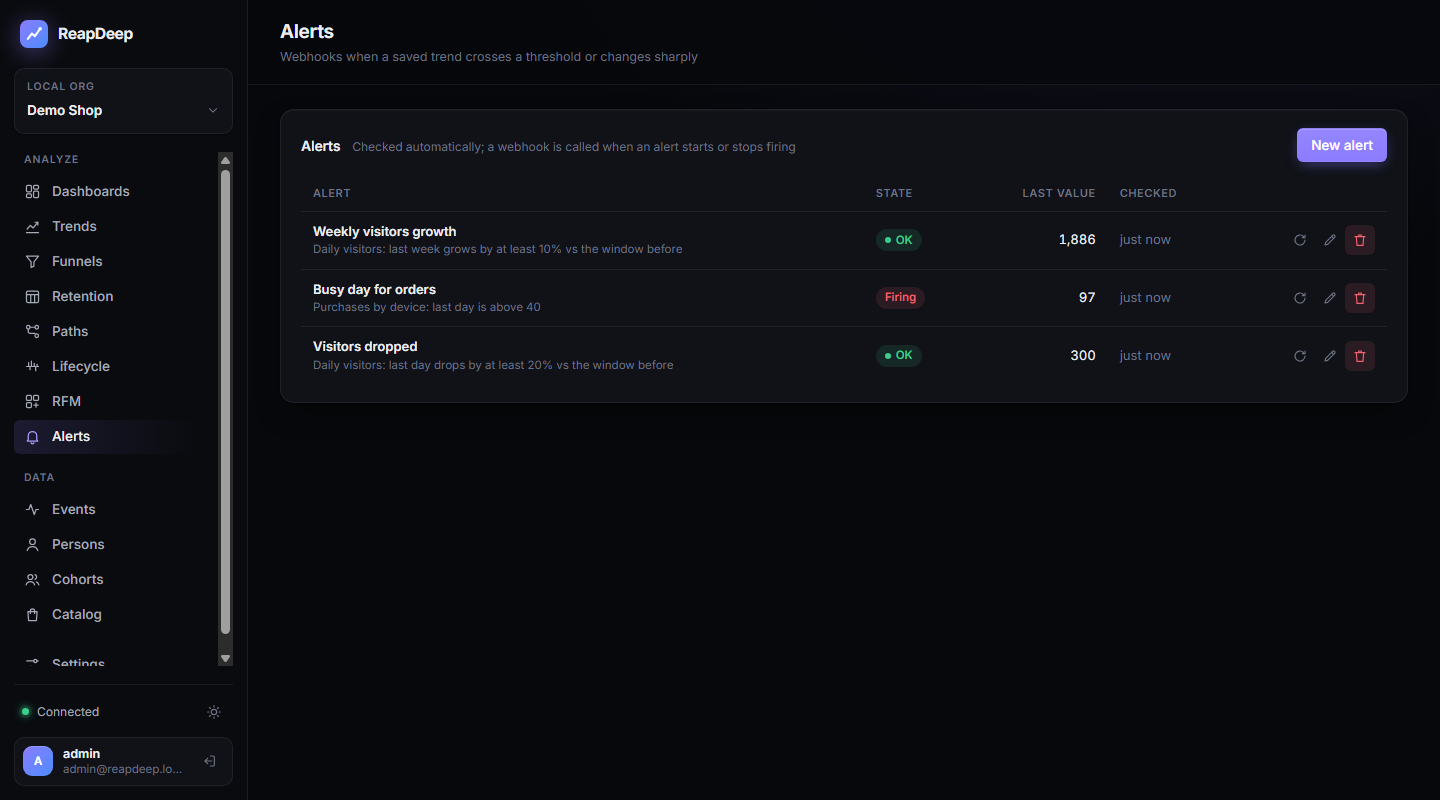
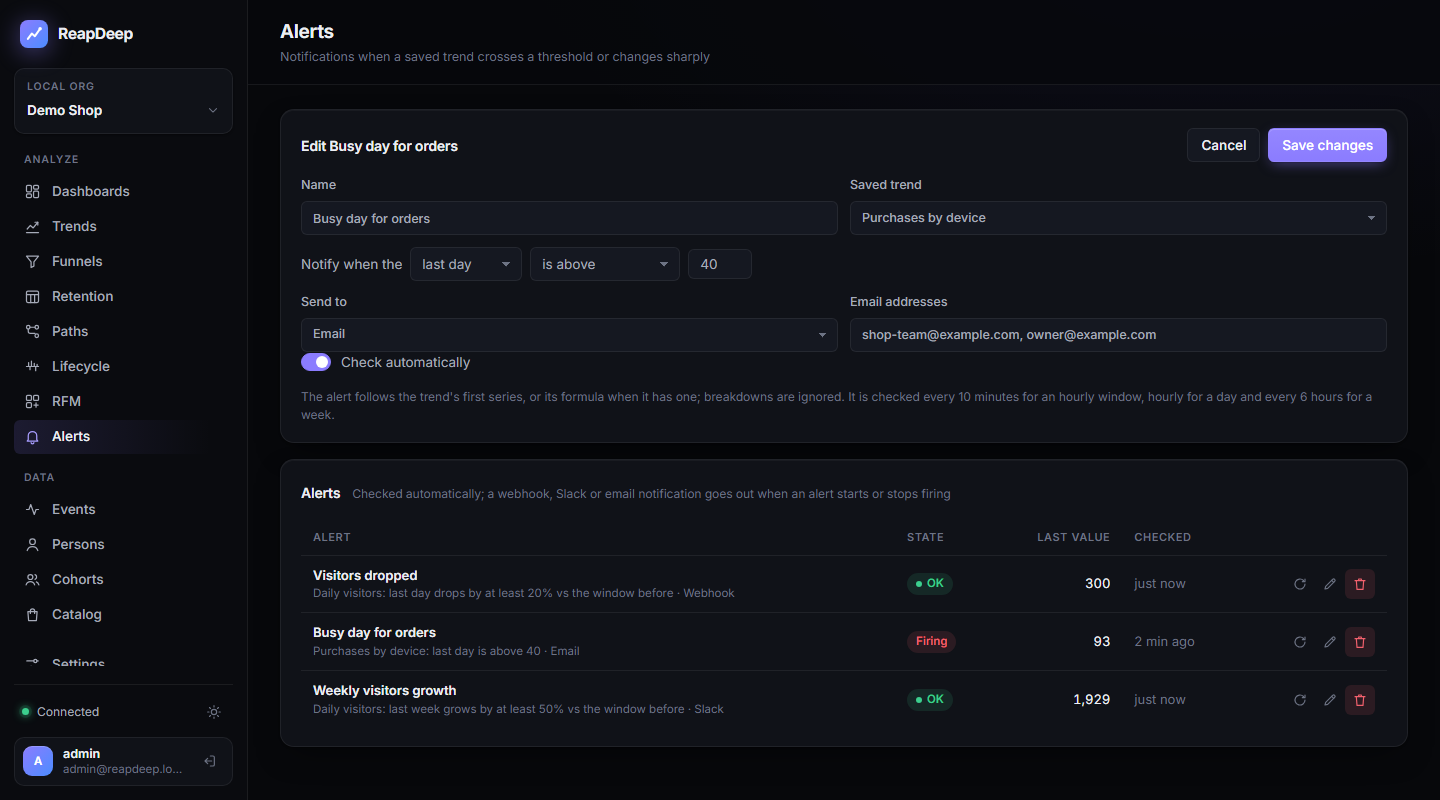
Refresh README screenshots for live recommendation performance, funnel cohorts and alert channels
New images show a funnel drop-off with "Save as dynamic cohort" and the
resulting funnel cohort; the alerts, catalog and funnel screenshots and the
tour GIF are retaken on the regenerated Demo Shop. The Alerts page subtitle no
longer says webhooks only.

diff --git a/dashboard/src/app/route.ts b/dashboard/src/app/route.ts
@@ -12,7 +12,7 @@ export const TABS: TabInfo[] = [
   { id: 'paths', label: 'Paths', icon: 'paths', description: 'What people do after a starting event', group: 'analyze' },
   { id: 'lifecycle', label: 'Lifecycle', icon: 'lifecycle', description: 'New, returning, resurrecting and dormant persons per period', group: 'analyze' },
   { id: 'rfm', label: 'RFM', icon: 'rfm', description: 'Customers segmented by recency, frequency and monetary value', group: 'analyze' },
-  { id: 'alerts', label: 'Alerts', icon: 'bell', description: 'Webhooks when a saved trend crosses a threshold or changes sharply', group: 'analyze' },
+  { id: 'alerts', label: 'Alerts', icon: 'bell', description: 'Notifications when a saved trend crosses a threshold or changes sharply', group: 'analyze' },
   { id: 'events', label: 'Events', icon: 'events', description: 'Raw event stream', group: 'data' },
   { id: 'persons', label: 'Persons', icon: 'persons', description: 'Identified people and their history', group: 'data' },
   { id: 'cohorts', label: 'Cohorts', icon: 'users', description: 'Segments of people by what they did and who they are', group: 'data' },

diff --git a/README.md b/README.md
@@ -189,7 +189,7 @@ A trend series counts events, counts unique persons, or aggregates a numeric eve
 
 ### Alerts
 
-![Alerts](docs/images/alerts.png)
+![An alert being edited: a daily threshold on a saved trend, sent by email, above the list of webhook, email and Slack alerts](docs/images/alerts.png)
 
 An alert watches a saved trend over the last hour, day or week: *above* or *below* a value, or a *growth* or *drop* of at least N% against the window before. It follows the trend's first series, or its formula when there is one. The alert runner checks hourly-window alerts every 10 minutes, daily ones every hour and weekly ones every 6 hours (instances claim alerts with `FOR UPDATE SKIP LOCKED`), and "Check now" runs one on demand.
 
@@ -201,6 +201,10 @@ An alert notifies one channel: a webhook, a Slack incoming webhook (a short text
 
 A dynamic cohort is a set of OR'ed groups of AND'ed conditions: *did event X at least / at most / exactly N times in the last D days* (optionally where an event property matches), *did not do event Y in the last D days*, or *person property matches*. Windows are 1-90 days. *RFM segment is one of ...* turns RFM segments into a condition (see above). *Dropped after step N* or *reached step N* of a funnel (2-8 steps, a conversion window and a look-back of 1-90 days) keeps a funnel's drop-offs as a cohort that updates itself; the Funnels tab saves one from any drop-off. A static cohort is a list of person ids or distinct_ids, pasted or loaded from a CSV.
 
+| A funnel drop-off, saved as a fixed or dynamic cohort | The resulting cohort with its funnel condition |
+|---|---|
+| ![Funnel drop-off](docs/images/funnel-dropoff.png) | ![Funnel cohort](docs/images/cohort-funnel.png) |
+
 - **Materialized membership:** the person worker evaluates the rules in StarRocks and writes the members to `cohort_members` (every distinct_id of each person, so anonymous history counts for the merged person). Cohorts refresh hourly by default; the editor shows a live count computed on the fly.
 - **Cheap to use in analyses:** `cohort_members` is keyed by `(project_id, distinct_id)` in the same colocate group as `events`, so a cohort filter (`{"scope":"cohort","property":"<id>","op":"in" | "not_in"}`) is a bucket-local semi or anti join on the events table. Trends and funnels can also break down by up to 5 cohorts.
 - **Consistent versions:** each refresh writes a new version and switches to it atomically; the previous version is kept for 60 s so queries already running are not affected.
@@ -209,7 +213,7 @@ A dynamic cohort is a set of OR'ed groups of AND'ed conditions: *did event X at 
 
 ### Catalog and recommendations
 
-![Catalog](docs/images/catalog.png)
+![Catalog: model status, offline hit rate and live click rate per model and placement](docs/images/catalog.png)
 
 The commerce contract is small: `product_viewed`, `add_to_cart` and `purchase` events with `properties.item_id` (one `purchase` per item, linked by `order_id`; the SDK's `trackPurchase` does that). A `refund` event with the same `order_id` and a positive `amount` lowers the customer's spend in RFM; it never counts as an order or as the last purchase. The catalog lives in PostgreSQL and is written with `PUT /api/v1/items` by an owner or admin, a CSV upload in the dashboard, or a `catalog_write` API key (`ck_...`), which can only reach the catalog endpoints.
 
